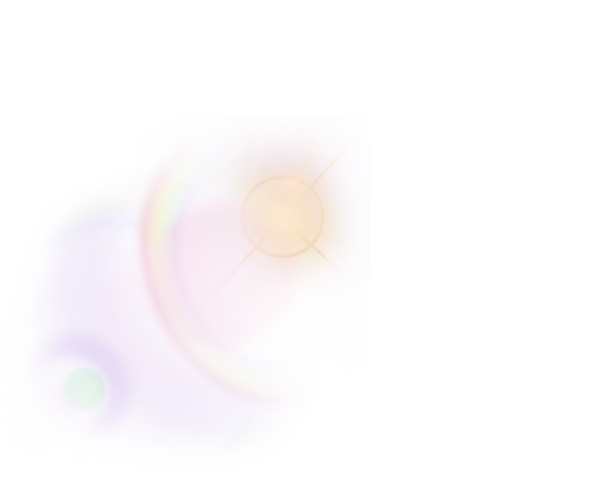
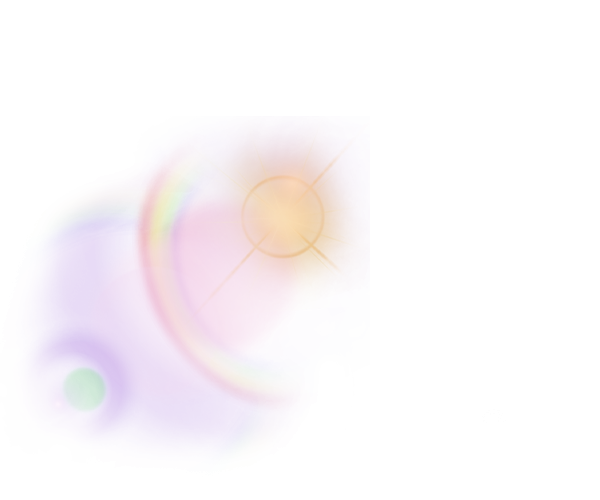
df

diff --git a/PremierCard/300x250_alt/style.css b/PremierCard/300x250_alt/style.css
@@ -86,7 +86,7 @@ video {
   pointer-events: none;
   will-change: opacity, filter, transform;
   /* scale: 1.1; */
-  opacity: .8;
+  /* opacity: .8; */
 }
 #bg{
   will-change: transform;
@@ -121,6 +121,7 @@ video {
   font-size: 22px;
   top: 88px;
   color: #fff;
+  text-shadow: 0 1px 2px rgba(0, 0, 0, 0.3);
 }
 #copy2{
   left: 22px;
@@ -138,6 +139,9 @@ video {
 #copy2 .line2 {
     font-size: 46.95px;
     top: 39px;
+}
+#copy2 .line3{
+  text-shadow: 0 1px 2px rgba(0, 0, 0, 0.3);
 }
 #copy3{
   font-size: 20.14px;

diff --git a/index.html b/index.html
@@ -212,10 +212,10 @@
           <div class="card">
             <a target="_blank" href="PremierCard/300x250/index.html">300x250</a>
           </div>
-          <!-- <div class="card">
+          <div class="card">
             <a target="_blank" href="PremierCard/300x250_alt/index.html">300x250 Alt</a>
           </div>
-          <div class="card">
+          <!-- <div class="card">
             <a target="_blank" href="PremierCard/300x250_alt/index.html">300x250 Alt</a>
           </div> -->
         </div>

diff --git a/PremierCard/300x250_alt/main.js b/PremierCard/300x250_alt/main.js
@@ -15,7 +15,7 @@ function animate() {
   tl.set(["#main_content"], { autoAlpha: 1, force3D: true });
   tl.set(["#copy1", "#copy2", "#copy3", "#cta"], { y: 20, autoAlpha: 0 });
   tl2.set(bg, {scale:1, force3D:true})
-  tl2.to(flare, 2, { opacity: 0.3,  yoyo:true, repeat:6,  ease: "sine.inOut"}, 0)
+  tl2.to(flare, 4, { scale: 0.7,  yoyo:true, repeat:6,  ease: "sine.inOut"}, 0)
   tl2.to(bg, 9, {scale:1.1, ease: "none"}, 0)
   // tl2.to("#shimmerShine", 3.5,{ backgroundPosition: "0px 220px", ease: "none", repeat: 3}, -0.5)
   tl.addLabel("frame1", 0)

diff --git a/PremierCard/300x250/style.css b/PremierCard/300x250/style.css
@@ -85,7 +85,6 @@ video {
   /* mix-blend-mode: screen; */
   pointer-events: none;
   will-change: opacity, filter, transform;
-  scale: 1.1;
 }
 #bg{
   will-change: transform;